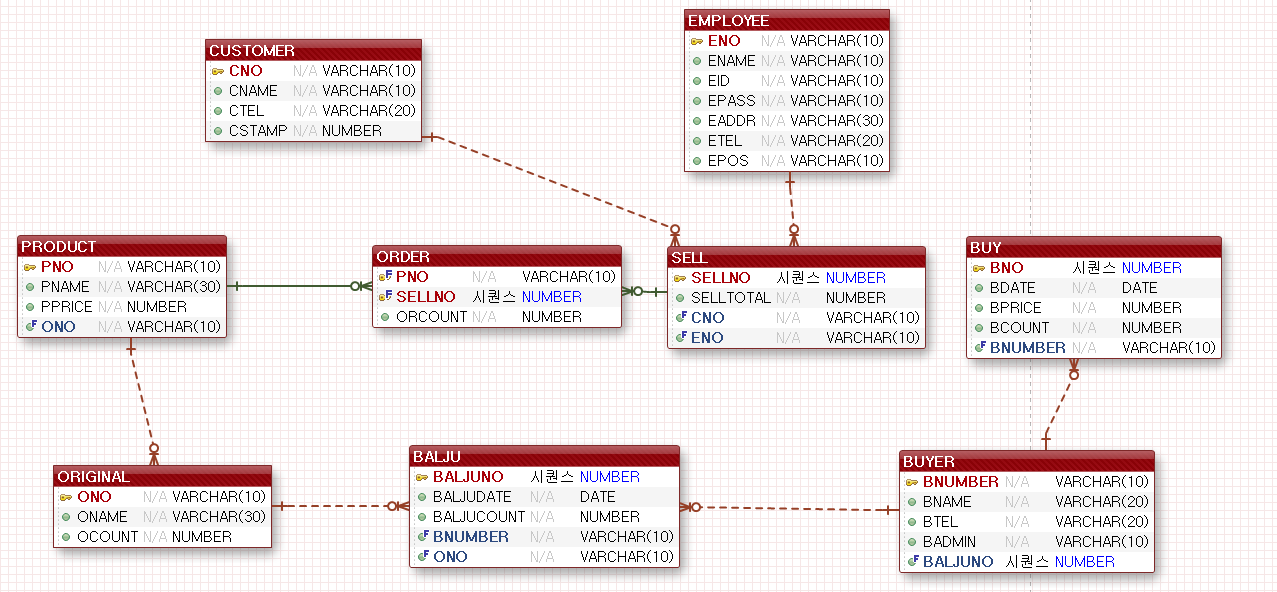
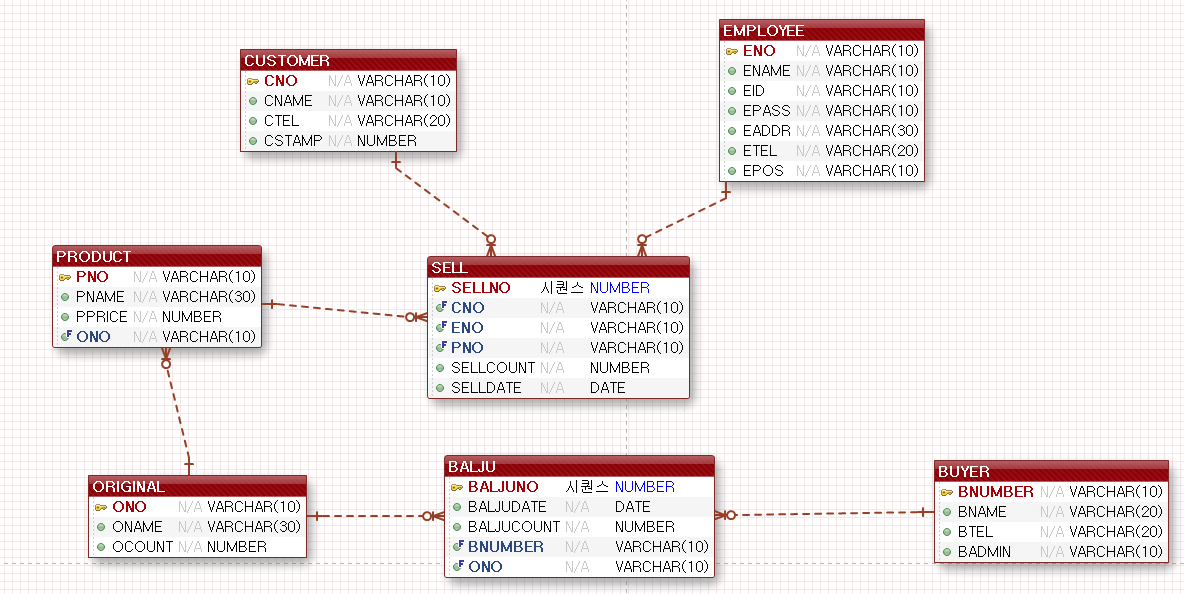
a

diff --git a/_posts/Think-Note/2019-05-20-NOTE_Project1.md b/_posts/Think-Note/2019-05-20-NOTE_Project1.md
@@ -16,45 +16,58 @@ tags: [Project]
 
 <br>
 
-#### 1.1 목적
 <p> POS(Point-of-Sale) 시스템을 구축하여 효율적 매출관리를 지원하며, 고객 경험을 개선하고 비즈니스 운영을 간소화 </p>
 
+* 계정
+> 관리자와 일반종업원 계정별로 접근 권한을 달리 부여 <br>
+> 일반종업원은 시스템의 판매탭에만 접근 가능하며 관리자계정은 모든 시스템에 접근 가능<br>
+> 로그인 화면에서 id,password를 입력작업을 통해 계정 구분
+
 <br>
-
-#### 1.2 사용자
-
-> 종업원, 관리자
-
-<br>
-
-## 2. 기능
 
 * 판매
-* 매출관리
-* 재고관리
+> 판매 화면에서 제품버튼을 클릭 시 판매목록에 클릭 한 제품이 추가되며, 가격란에 가격이 합산 되어 출력됨<br>
+> 동일제품 중복클릭시 해당 제품이 판매리스트에 중복추가됨 <br>
+> 제품 한 개당 하나의 판매번호를 가짐<br>
+> '취소' 버튼을 통해 주문을 취소 할 수있으며 취소버튼 클릭시 추가 된 판매리스트 또한 초기화 됨 <br>
+> 회원과 비회원 여부에 따라 적립/비적립 방식으로 결제 기능 수행 <br>
+> 회원 결제의 경우, 회원번호 입력 후 구매금액에 따라 마일리지 적립됨
 
 <br>
 
-## 3. DB모델 설계
+* 매출
+> 결제과정을 거쳐, 연결 된 DB에 저장된 판매 Data를 가져와 매출 요약 화면 구현<br>
+> 판매 된 제품별 매출 그래프 구현<br>
+> 해당 매장의 일,월별 매출 그래프 구현
+
+<br>
+
+* 재고
+> 해당 매장의 제품이 판매될때마다 연결된 DB에서 제품의 원재료 보유수량을 차감시킴<br>
+> 재고 탭에서 원재료의 잔여수량을 실시간으로 확인 가능<br>
+> 재고 탭에서 원재료 잔여수량 확인 후 발주버튼 통해 발주수량 입력 및 발주 기능 <br>
+
+<br><br>
+
+## 2. DB모델 설계
+
+<br>
 
 ![Alt text](/assets/img/erd.png)
 
 <br>
 
-#### 3.1 기능구현
-> 관리자/종업원 로그인 구현 <br>
-> 로그인 결과에 따라 관리자/종업원(재고,매출 탭 안보이게) <br>
-> 매출관리는 판매 결과에 따라 DB에서 SQL문으로 결과만 출력 <br>
+## 3. 구현 화면 & 코드
 
 <br>
 
-## 4. 구현 화면 & 코드
+#### 3.1 판매탭 버튼별 기능
 
 <br>
-
-#### 4.1 판매탭 버튼별 기능
+![Alt text](/assets/img/sellMain.png)
 
 ```java
+// 화면구성 class
 
 // String ame = "0001";
 // String latte = "0002";
@@ -117,7 +130,7 @@ public void actionPerformed(ActionEvent ev) {	// 액션 리스너
 
 <br>
 
-#### 4.2 판매탭 기능별 method 구현
+#### 3.2 판매탭 기능별 method 구현
 
 <br>
 
@@ -235,3 +248,42 @@ public ArrayList PaymentList(String pno) throws Exception { //
   return data;
 }
 ```
+
+<br><br>
+#### 3.3 로그인 기능 구현
+<br>
+
+![Alt text](/assets/img/login.png)
+
+```java
+
+
+```
+
+
+
+<br<br>
+#### 3.4 로그인 기능별 method구현
+
+<br>
+
+<br<br>
+#### 3.5 재고탭 구현
+
+<br>
+
+![Alt text](/assets/img/balju.png)
+
+<br><br>
+#### 3.6 재고탭 기능별 method
+<br>
+
+<br><br>
+#### 3.7 매출탭 구현
+<br>
+
+![Alt text](/assets/img/sale.png)
+
+<br><br>
+#### 3.8 매출탭 기능별 method
+<br>
